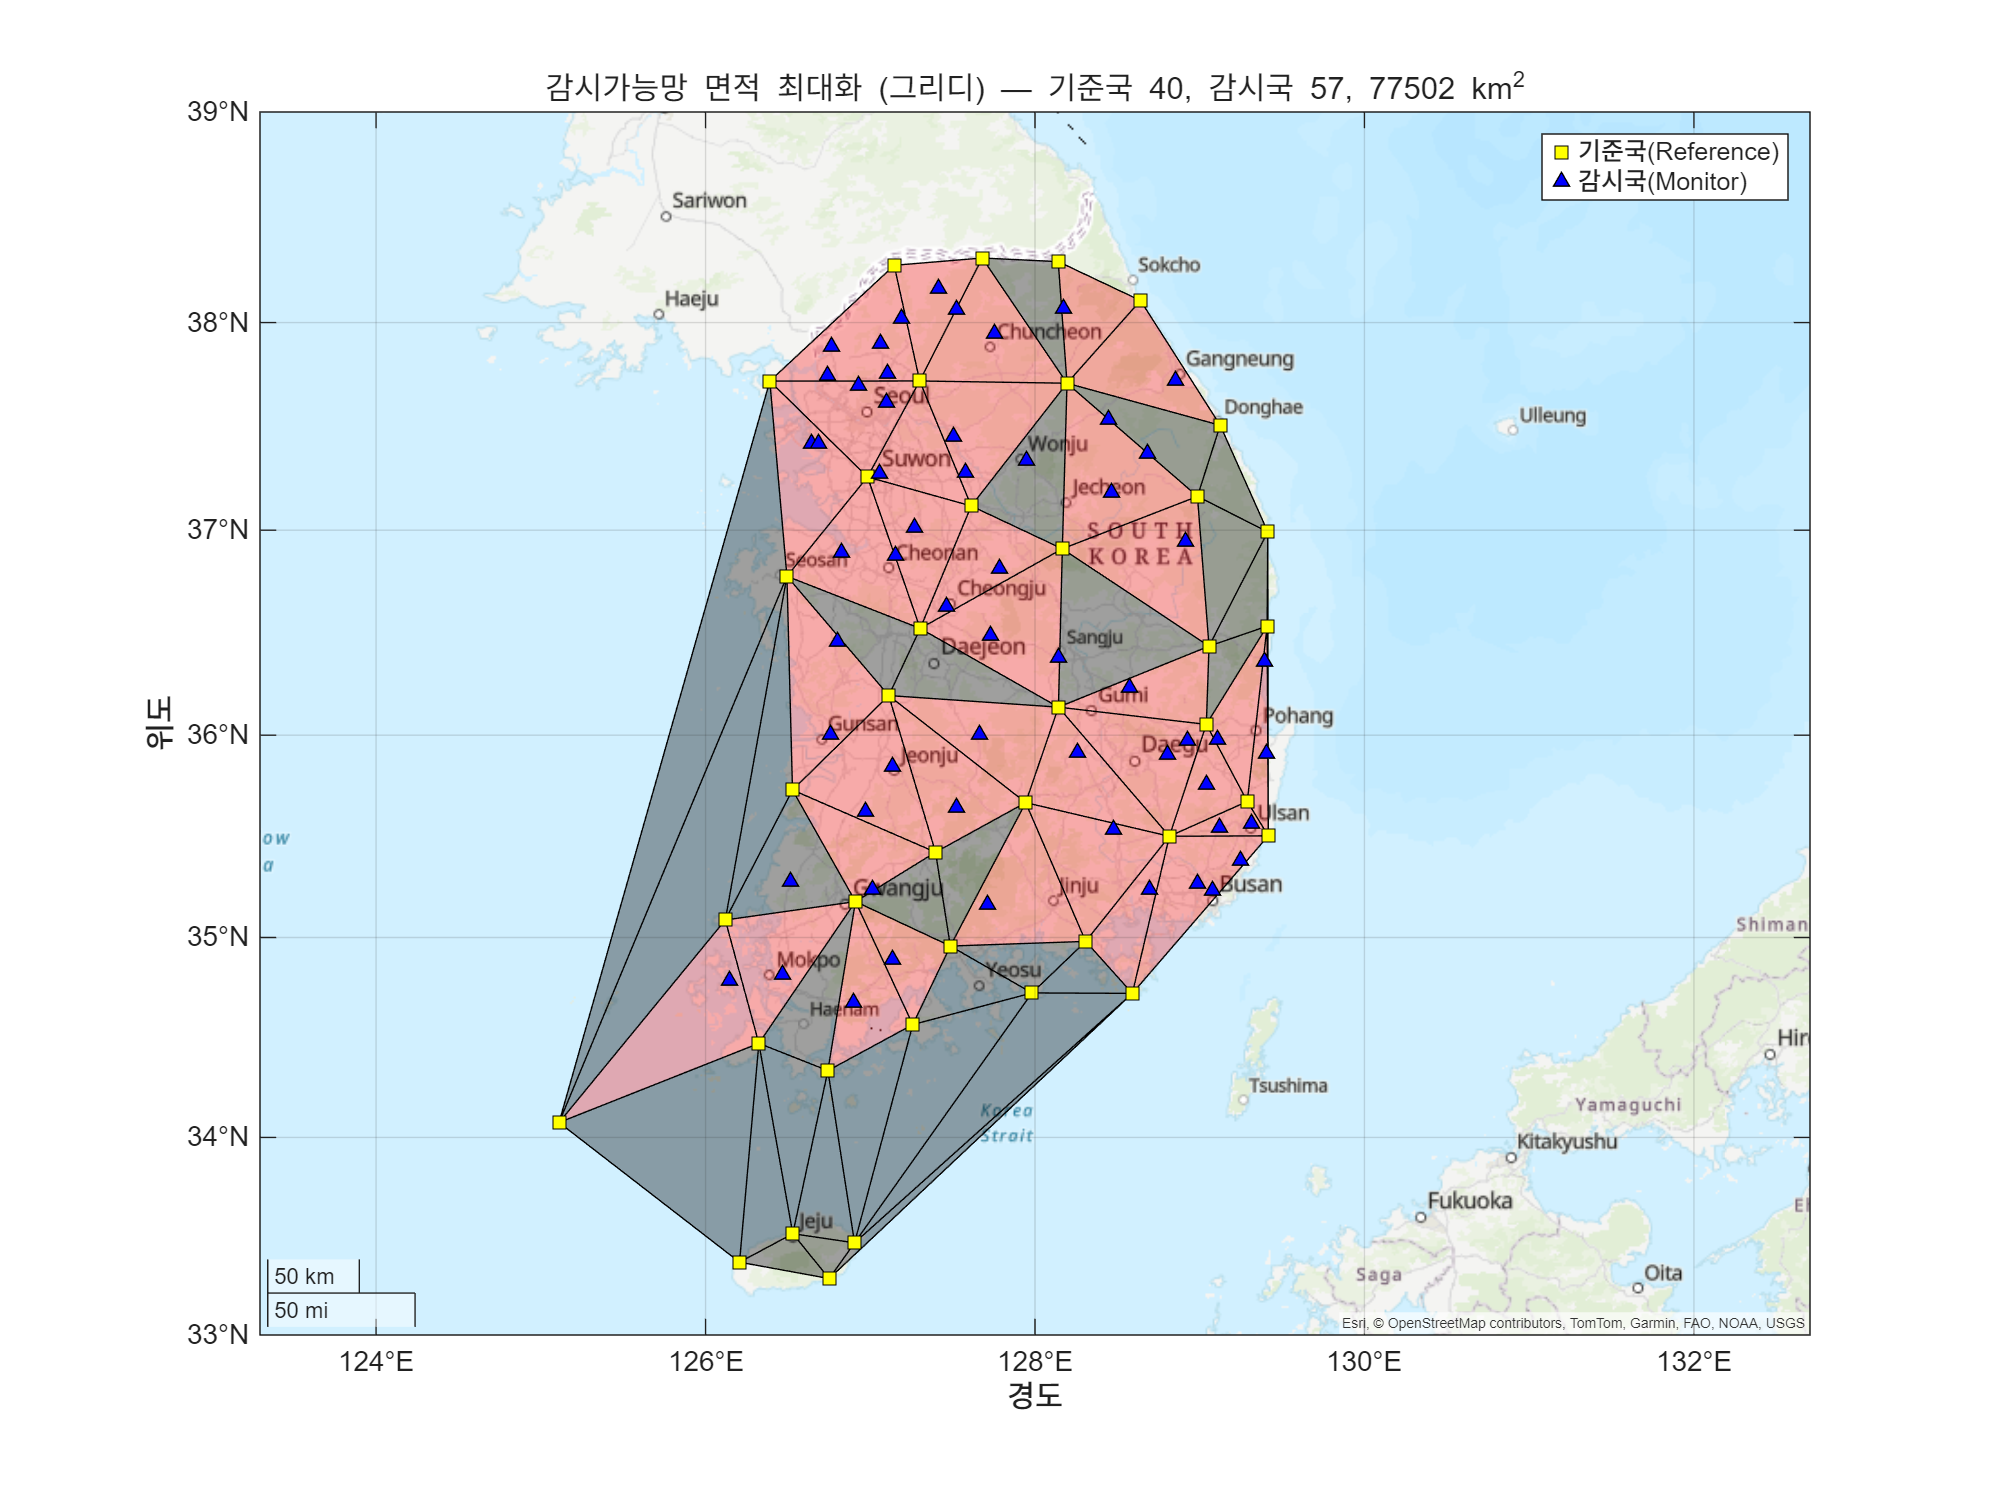
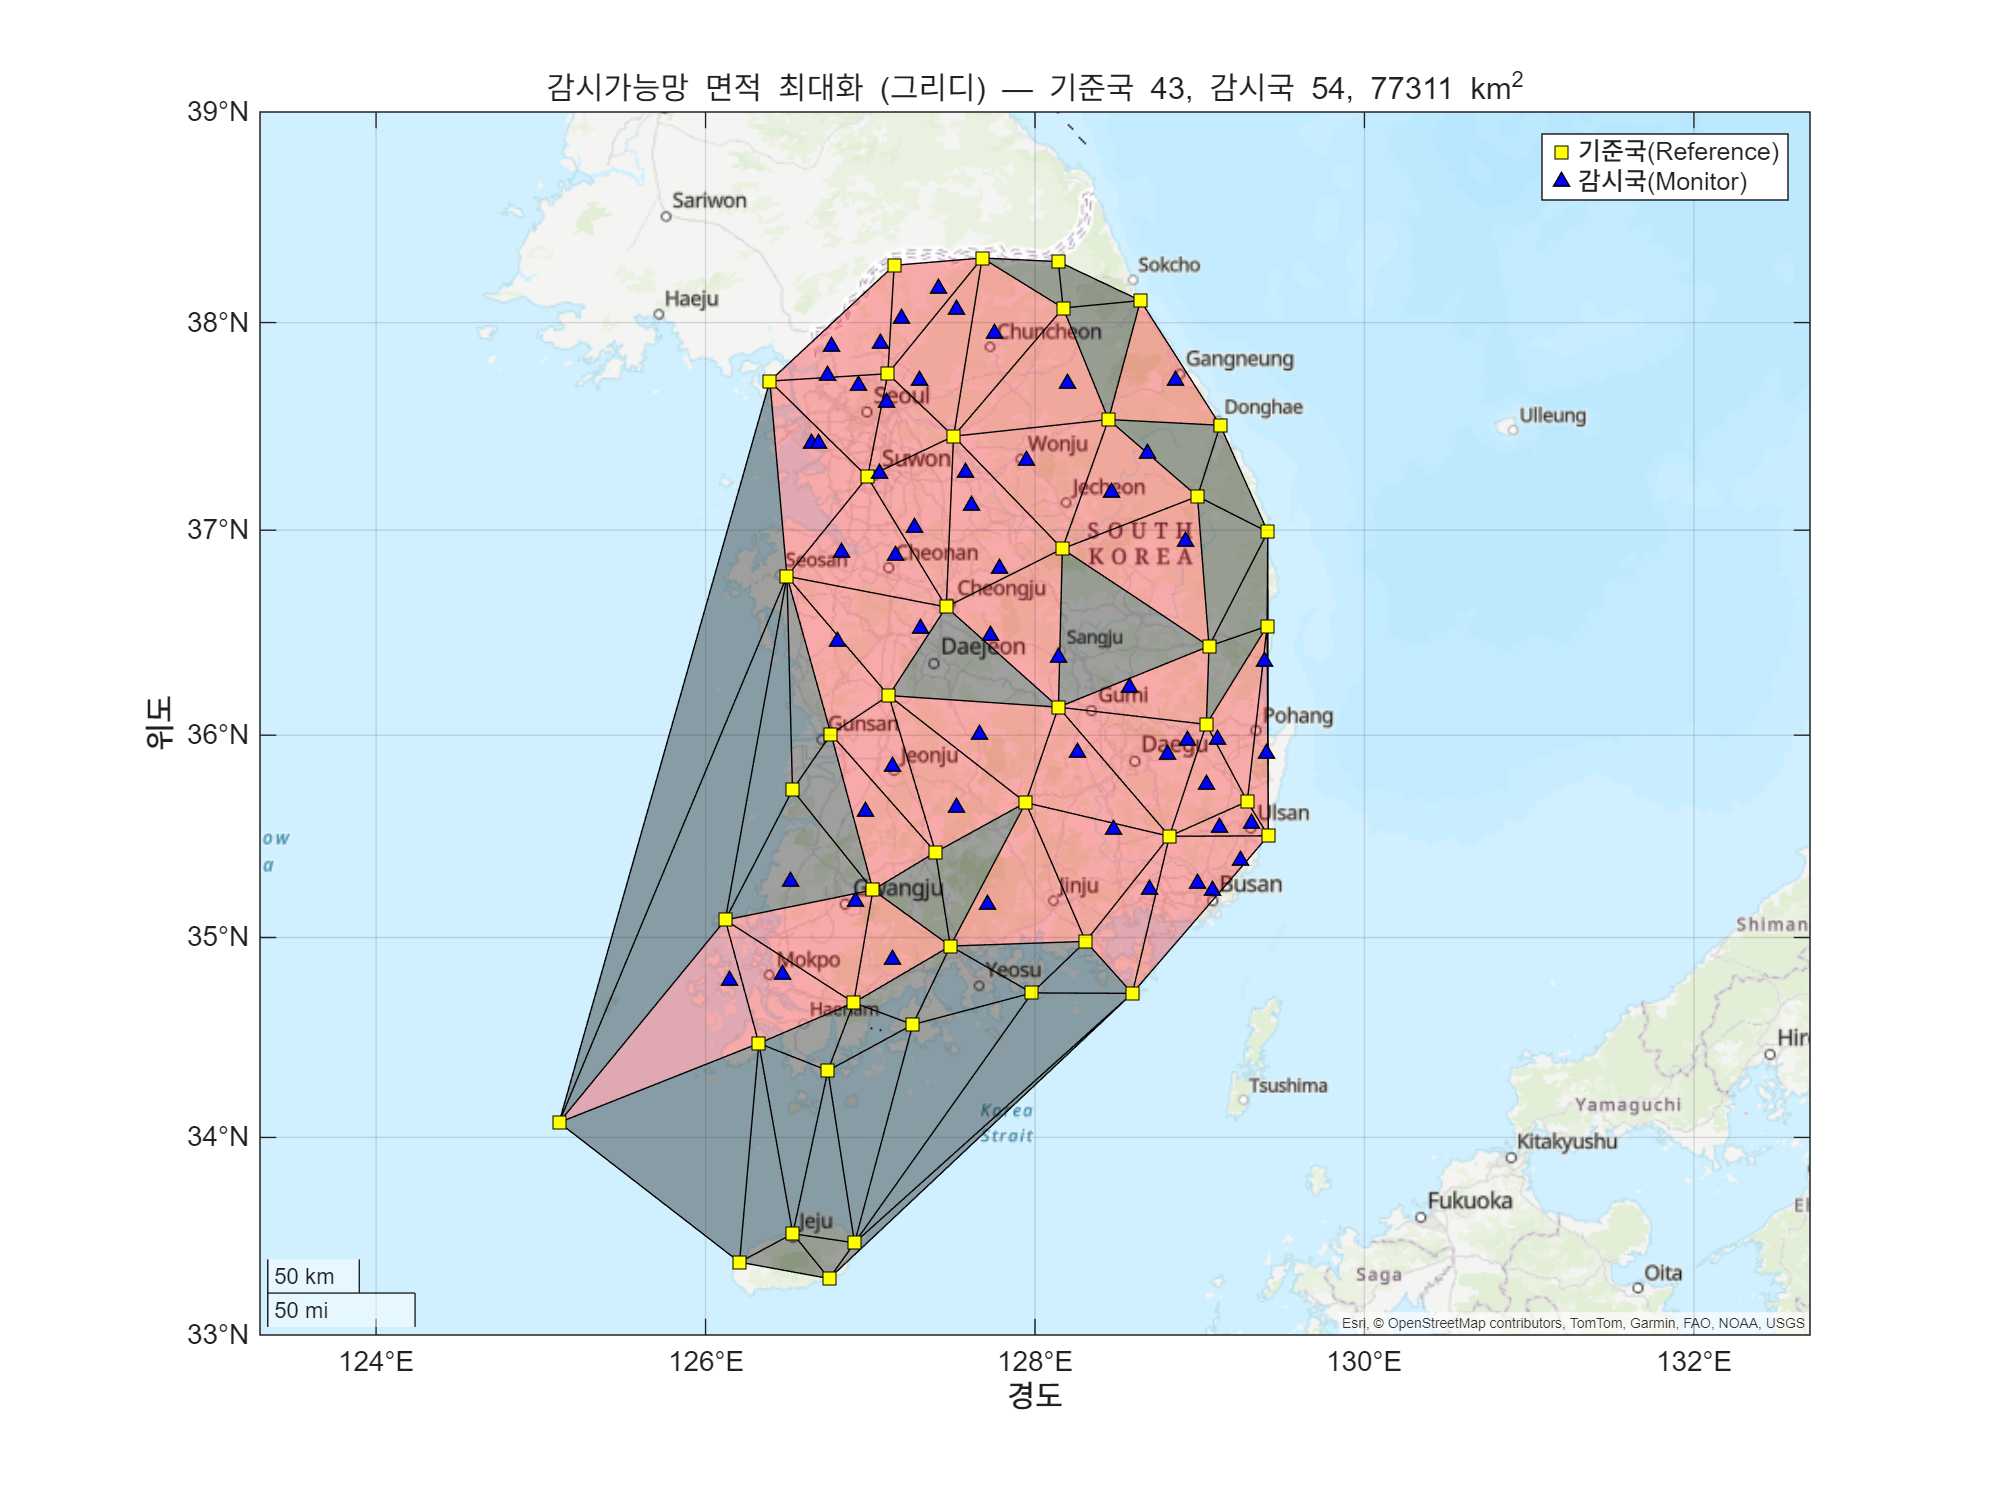
가용성 cut-off를 분포 기반(mean-3sigma)으로 전환 (+2.7% 면적 개선)
- qc_rules/net_config: qcAvailSigmaK 옵션 — 임계 = mean - k*std (가동국
  avail>0 분포 기준, 완전 미제공 0.00은 무조건 컷). 기본값 k=3 채택
- 2025 데이터 분포(가동 92국 mean 0.971, std 0.040): 2sigma=0.892/3sigma=0.852
  두 임계 모두 동일 망 (INCH는 avail 생존해도 SLPS 11.5>=10로 걸림) —
  고정 0.95 대비 실질 차이는 WNJU(0.93) 후보 복귀
- 결과(100km): ILP 전역최적(gap 0, 인증 96.62%) 기준국 38/감시국 59,
  유효셀 38, 87,543 km^2 (고정 0.95: 85,256 대비 +2.7%)
- 70km는 3sigma는 물론 미제공(0.00)만 컷하는 완화로도 여전히 비실현
  (SLPS 컷 INCH·YONK가 구조적 필수) — 70km는 구조 예외 목록으로만 가능
- run_plot_qc_status: 유효 임계(qc.availThr) 기준으로 분류·범례 표기

Claude-Session: https://claude.ai/code/session_01UYcRwiTz1XWkLPAKJQoUpf

diff --git a/2차/망최적화/qc_rules.m b/2차/망최적화/qc_rules.m
@@ -32,17 +32,30 @@ function qc = qc_rules(T, cfg)
         score = T.qcScore;
     end
 
-    availOK = a >= cfg.qcMinAvailRef;
-    slpsOK  = slps < cfg.qcMaxSLPS;
+    % 가용성 임계: 고정(qcMinAvailRef) 또는 분포 기반(mean − k·std, 가동국 avail>0 기준)
+    if isfield(cfg, 'qcAvailSigmaK') && ~isempty(cfg.qcAvailSigmaK)
+        oper = a > 0;                        % avail=0(완전 미제공)은 분포에서 제외 + 무조건 컷
+        thrA = mean(a(oper)) - cfg.qcAvailSigmaK * std(a(oper));
+        availOK = oper & (a >= thrA);
+        availDesc = sprintf('Availability>=%.3f (=mean−%g·std, 가동국 기준; 0은 무조건 컷)', ...
+            thrA, cfg.qcAvailSigmaK);
+        thrMon = thrA;
+    else
+        availOK = a >= cfg.qcMinAvailRef;
+        availDesc = sprintf('Availability>=%.2f (고정)', cfg.qcMinAvailRef);
+        thrMon = cfg.qcMinAvailMon;
+    end
+    slpsOK = slps < cfg.qcMaxSLPS;
 
     qc.avail = a;  qc.slps = slps;  qc.score = score;  qc.names = names;
+    qc.availThr = thrMon;                % 유효 가용성 임계 (고정 또는 mean−k·std)
     qc.minAvailRef = cfg.qcMinAvailRef;  qc.maxSLPS = cfg.qcMaxSLPS;
     qc.refOK = availOK & slpsOK;
     qc.useA7 = isfield(cfg, 'qcScoreA7') && cfg.qcScoreA7;
-    qc.monOK = a >= cfg.qcMinAvailMon;
+    qc.monOK = (a > 0) & (a >= thrMon);
 
-    fprintf('[QC 규칙/RsrchMt] Availability>=%.2f & SLPS<%g, A7(평균 Score 제약)=%d\n', ...
-        cfg.qcMinAvailRef, cfg.qcMaxSLPS, qc.useA7);
+    fprintf('[QC 규칙/RsrchMt] %s & SLPS<%g, A7(평균 Score 제약)=%d\n', ...
+        availDesc, cfg.qcMaxSLPS, qc.useA7);
     cutA = find(~availOK);
     fprintf('  Availability cut-off %d국: %s\n', numel(cutA), ...
         strjoin(compose("%s(%.2f)", names(cutA), a(cutA))', ', '));

diff --git a/2차/망최적화/plots/run_plot_qc_status.m b/2차/망최적화/plots/run_plot_qc_status.m
@@ -32,7 +32,7 @@ isB = false(N,1); isB(R.boundarySpec) = true;
 cfg = net_config();
 qc = qc_rules(T, cfg);
 
-availCut = qc.avail < cfg.qcMinAvailRef;
+availCut = ~((qc.avail > 0) & (qc.avail >= qc.availThr));   % 유효 임계 기준 (0=미제공 포함)
 slpsCut  = ~availCut & ~(qc.slps < cfg.qcMaxSLPS);
 cand = ~isB & qc.refOK & ~isnan(qc.score);
 Sbar = mean(qc.score(cand));
@@ -81,7 +81,7 @@ hh(end+1,1) = geoplot(gx, lat(bExempt), lon(bExempt), 's', 'MarkerEdgeColor', [0
 lbl{end+1} = sprintf('기준국·외곽 예외 — QC 미달 유지 (%d개소)', nnz(bExempt));
 hh(end+1,1) = geoplot(gx, lat(forcedAvail), lon(forcedAvail), 'v', 'MarkerEdgeColor', 'k', ...
     'MarkerFaceColor', [0.85 0.1 0.1], 'MarkerSize', 7, 'LineStyle', 'none');
-lbl{end+1} = sprintf('감시국 전환 — Availability<%.2f (%d개소)', cfg.qcMinAvailRef, nnz(forcedAvail));
+lbl{end+1} = sprintf('감시국 전환 — Availability<%.2f (%d개소)', qc.availThr, nnz(forcedAvail));
 hh(end+1,1) = geoplot(gx, lat(forcedSlps), lon(forcedSlps), 'v', 'MarkerEdgeColor', 'k', ...
     'MarkerFaceColor', [0.8 0.45 0.65], 'MarkerSize', 7, 'LineStyle', 'none');
 lbl{end+1} = sprintf('감시국 전환 — SLPS>=%g (%d개소)', cfg.qcMaxSLPS, nnz(forcedSlps));

diff --git a/2차/망최적화/net_config.m b/2차/망최적화/net_config.m
@@ -12,6 +12,11 @@ function cfg = net_config()
     %  stations_ngii.mat 에 조인됨. qc_rules.m 이 마스크/Score 생성 → 그리디/ILP 반영.
     cfg.qcMinAvailRef = 0.95;  % ① Availability 95% 미만 cut-off (기준국 부적격, x_i=0
                                %    고정). 외곽 고정국은 스코어링 대상 제외(기준국 유지).
+    cfg.qcAvailSigmaK = 3;     % ①' 분포 기반 컷(기본): 임계 = mean − k·std (가동국 avail>0
+                               %    분포 기준; avail=0 완전 미제공 국은 무조건 컷). [] = 고정
+                               %    qcMinAvailRef 사용. 2025 데이터에선 2σ(0.892)와 3σ(0.852)가
+                               %    동일 망을 주고(0.83 그룹 컷, INCH는 SLPS로 걸림),
+                               %    고정 0.95 대비 WNJU(0.93) 생존 → 면적 +2.7% (87,543 km²).
     cfg.qcMaxSLPS     = 10;    % ② SLPS 임계 초과 추가 제외 — 문서 지침대로 망 재구성
                                %    반복 비교(스윕)로 경험적 설정. Inf = 비활성.
     cfg.qcMPRef       = 0.3;   % ③ MP 정규화 기준 [m] (IGS 권고값)
